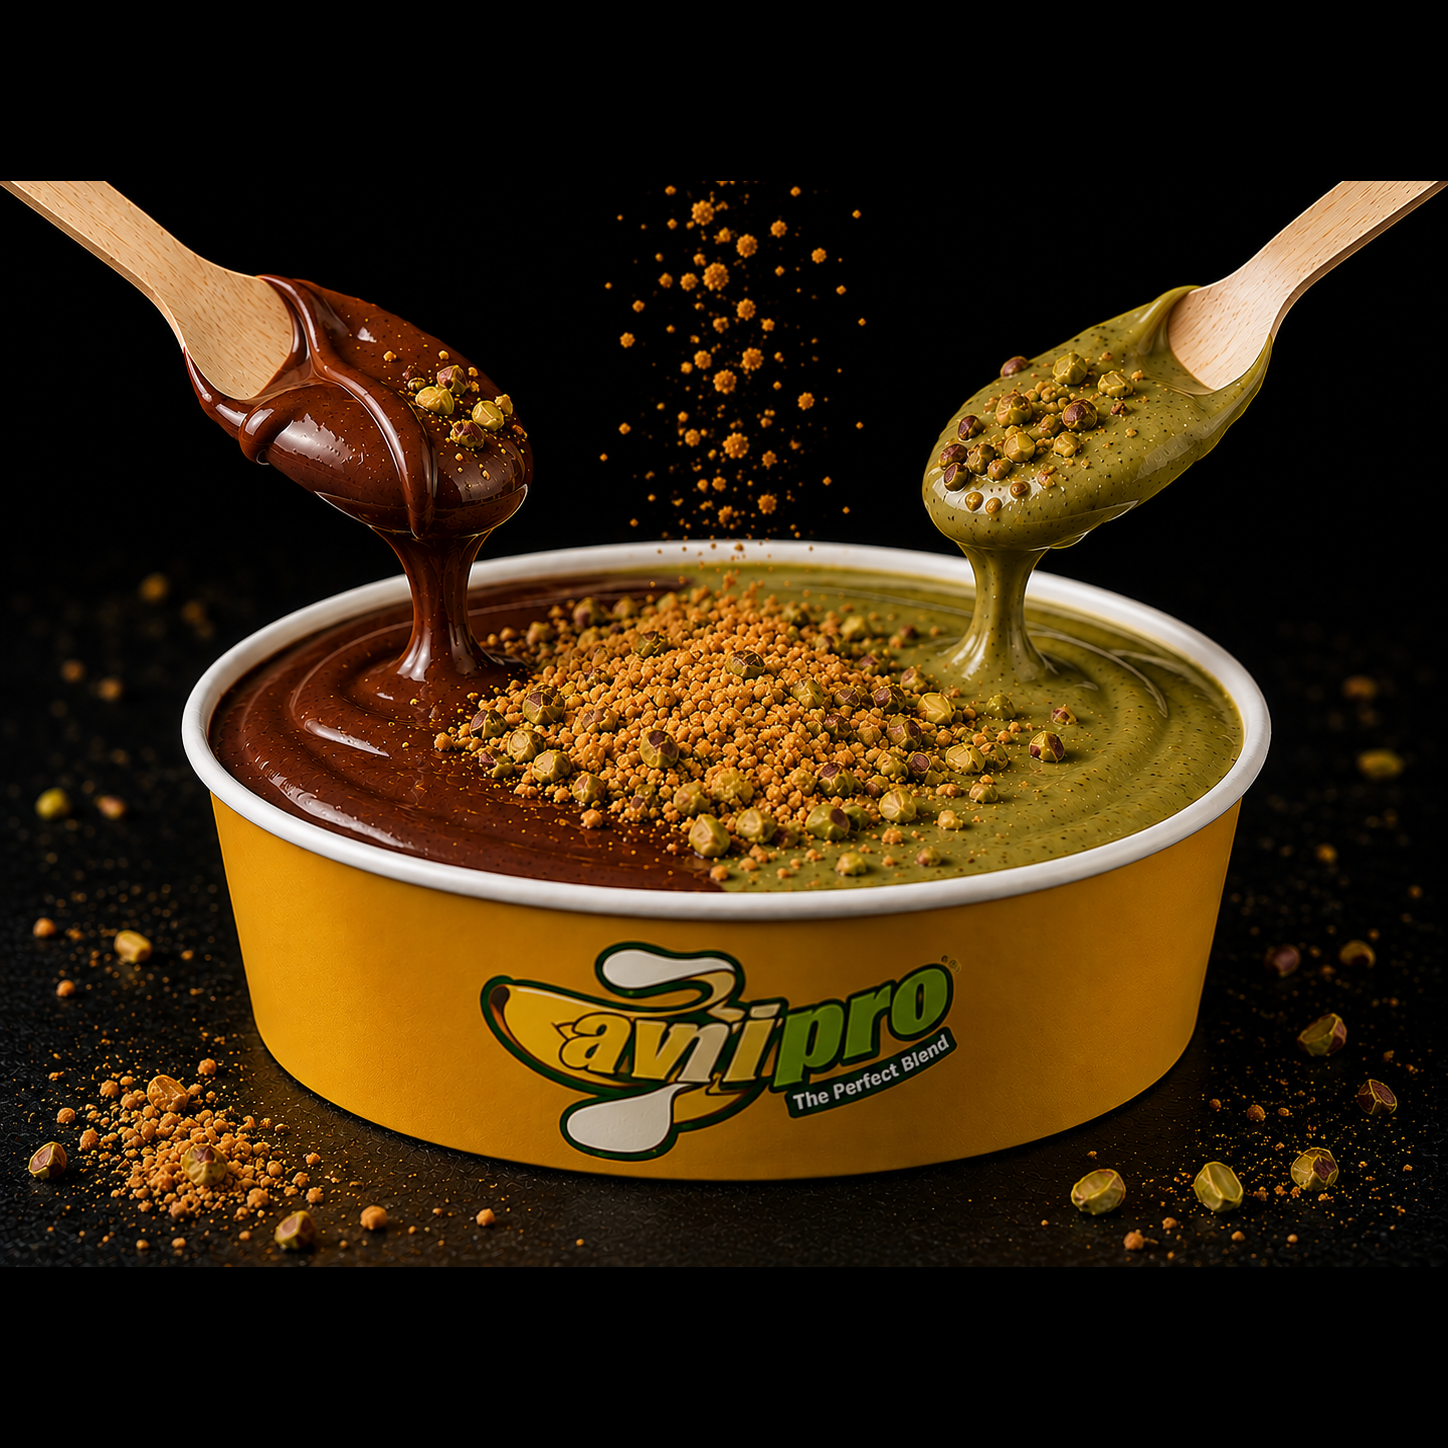
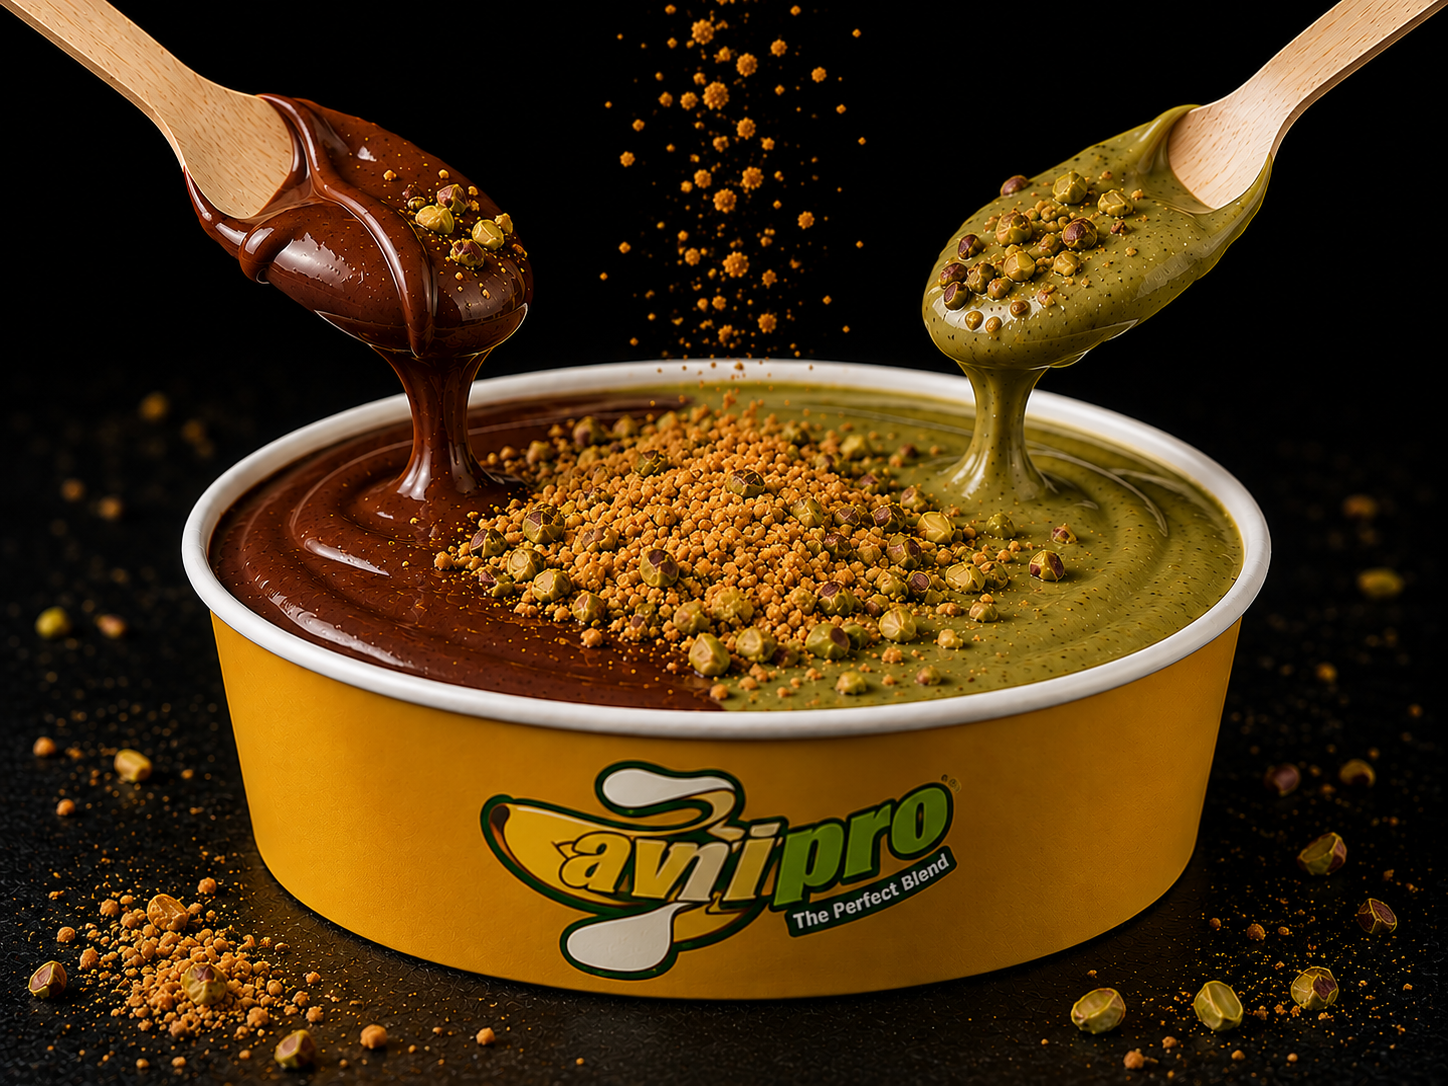
branding added

diff --git a/scratch/copy_more_photos.py b/scratch/copy_more_photos.py
@@ -1,0 +1,24 @@
+from PIL import Image
+
+src_dessert = r"C:\Users\HP\Downloads\ChatGPT Image Aug 4, 2026, 02_48_20 PM.png"
+src_burger = r"C:\Users\HP\Downloads\ChatGPT Image Aug 4, 2026, 01_42_37 PM.png"
+src_sandwich = r"C:\Users\HP\Downloads\ChatGPT Image Aug 4, 2026, 01_42_16 PM.png"
+
+dest_dessert = r"C:\Users\HP\Desktop\projects\tfg projects all\avilpro\static\lebanese_salad.png"
+dest_burger = r"C:\Users\HP\Desktop\projects\tfg projects all\avilpro\static\gourmet_burger.png"
+dest_sandwich = r"C:\Users\HP\Desktop\projects\tfg projects all\avilpro\static\sn.jpg"
+
+# Convert & Save Dessert
+img_dessert = Image.open(src_dessert).convert("RGBA")
+img_dessert.save(dest_dessert, "PNG")
+print("Updated lebanese_salad.png!")
+
+# Convert & Save Burger
+img_burger = Image.open(src_burger).convert("RGBA")
+img_burger.save(dest_burger, "PNG")
+print("Updated gourmet_burger.png!")
+
+# Convert & Save Sandwich
+img_sandwich = Image.open(src_sandwich).convert("RGB")
+img_sandwich.save(dest_sandwich, "JPEG")
+print("Updated sn.jpg!")

diff --git a/scratch/crop_yellow_borders.py b/scratch/crop_yellow_borders.py
@@ -1,0 +1,18 @@
+from PIL import Image
+
+burger_path = r"C:\Users\HP\Desktop\projects\tfg projects all\avilpro\static\gourmet_burger.png"
+sandwich_path = r"C:\Users\HP\Desktop\projects\tfg projects all\avilpro\static\sn.jpg"
+
+# Crop outer yellow frame border from Burger (approx 15px around)
+img_b = Image.open(burger_path)
+w_b, h_b = img_b.size
+crop_b = img_b.crop((15, 15, w_b - 15, h_b - 15))
+crop_b.save(burger_path, "PNG")
+
+# Crop outer yellow frame border from Sandwich (approx 15px around)
+img_s = Image.open(sandwich_path)
+w_s, h_s = img_s.size
+crop_s = img_s.crop((15, 15, w_s - 15, h_s - 15))
+crop_s.save(sandwich_path, "JPEG")
+
+print("Cropped yellow frame borders from burger and sandwich images!")
